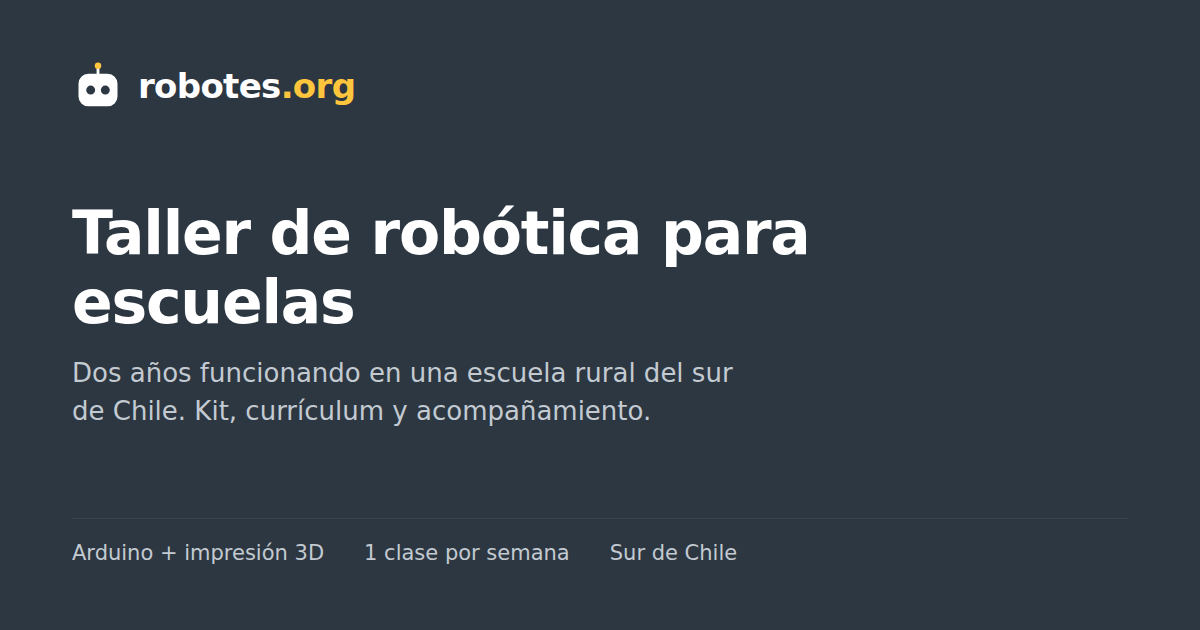
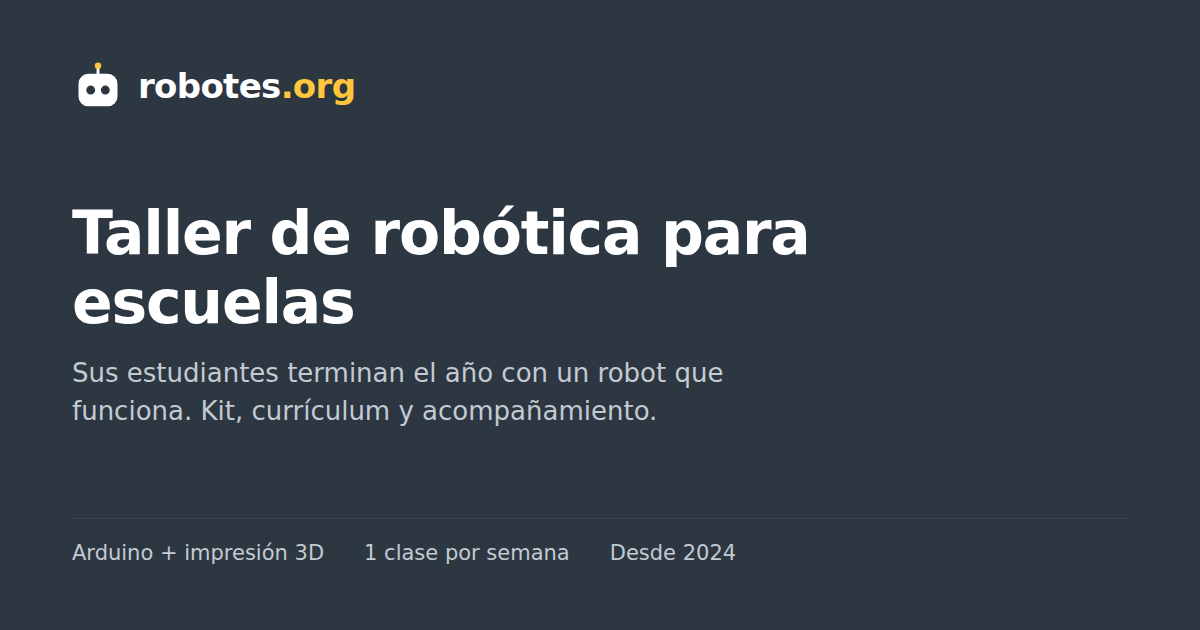
Reescribe el titular desde el resultado para la escuela
El titular anterior hablaba de nuestra trayectoria: "Dos años haciendo
robotica en una escuela rural". El director no compra la trayectoria,
compra un resultado en sus estudiantes. La prueba baja a la bajada y a la
franja de cifras, que es donde corresponde.

Se alinean og:description y la tarjeta OG. Sale "Sur de Chile" de la meta
descripcion y de la tarjeta, a pedido del fundador.

Changed region(s): [[0.0617, 0.6333, 0.555, 0.6937], [0.0617, 0.573, 0.6167, 0.6032], [0.4933, 0.8444, 0.6167, 0.9048]]

diff --git a/index.html b/index.html
@@ -4,7 +4,7 @@
 <meta charset="UTF-8">
 <meta name="viewport" content="width=device-width, initial-scale=1">
 <title>Taller de robótica para escuelas — robotes.org</title>
-<meta name="description" content="Taller de robótica para escuelas del sur de Chile. Una clase por semana durante el año escolar: los estudiantes diseñan en 3D, programan Arduino y terminan con un robot que funciona. Kit, currículum y acompañamiento incluidos.">
+<meta name="description" content="Taller de robótica para escuelas. Una clase por semana durante el año escolar: los estudiantes diseñan en 3D, programan Arduino y terminan con un robot que funciona. Kit, currículum y acompañamiento incluidos.">
 <meta name="theme-color" content="#2c3742">
 <link rel="icon" href="assets/logo/favicon.svg" type="image/svg+xml">
 <link rel="stylesheet" href="assets/tokens.css">
@@ -13,7 +13,7 @@
 <meta property="og:locale" content="es_CL">
 <meta property="og:site_name" content="robotes.org">
 <meta property="og:title" content="Taller de robótica para escuelas">
-<meta property="og:description" content="Dos años de taller semanal en una escuela rural del sur de Chile. Ahora lo llevamos a otras escuelas: kit, currículum y acompañamiento.">
+<meta property="og:description" content="Sus estudiantes terminan el año con un robot que funciona. Kit, currículum y acompañamiento, probados desde 2024 en una escuela rural.">
 <meta property="og:image" content="assets/og.png">
 <meta property="og:url" content="https://robotes.org/">
 <meta name="twitter:card" content="summary_large_image">
@@ -362,11 +362,11 @@
 
     <div class="hero" id="main">
       <p class="eyebrow">Taller de robótica para escuelas</p>
-      <h1>Dos años haciendo robótica en una escuela rural. Ahora lo llevamos a la suya.</h1>
+      <h1>Sus estudiantes van a terminar el año con un robot que funciona.</h1>
       <p class="lede">
-        Una clase por semana durante el año escolar. Los estudiantes diseñan en 3D,
-        programan Arduino, sueldan y terminan con un robot que funciona.
-        Nosotros ponemos el kit, el currículum y el acompañamiento.
+        Una clase por semana durante el año escolar: diseñan en 3D, programan Arduino,
+        sueldan y arman. Nosotros ponemos el kit, el currículum y el acompañamiento.
+        Lo venimos haciendo desde 2024 en una escuela rural.
       </p>
       <div class="actions">
         <a class="btn btn-primary" href="mailto:rsilva@sultans.co?subject=Taller%20de%20rob%C3%B3tica%20para%20nuestra%20escuela&amp;body=Hola%2C%20me%20interesa%20conocer%20el%20taller.%0A%0AEscuela%3A%20%0AComuna%3A%20%0ACargo%3A%20%0ACursos%20que%20participar%C3%ADan%3A%20%0AN%C3%BAmero%20aproximado%20de%20estudiantes%3A%20%0ATel%C3%A9fono%20de%20contacto%3A%20%0A%0AComentarios%3A%0A">Pedir una propuesta</a>

diff --git a/assets/og-card.html b/assets/og-card.html
@@ -60,13 +60,13 @@
 
   <div>
     <h1>Taller de robótica para escuelas</h1>
-    <p class="lede">Dos años funcionando en una escuela rural del sur de Chile. Kit, currículum y acompañamiento.</p>
+    <p class="lede">Sus estudiantes terminan el año con un robot que funciona. Kit, currículum y acompañamiento.</p>
   </div>
 
   <div class="foot">
     <span>Arduino + impresión 3D</span>
     <span>1 clase por semana</span>
-    <span>Sur de Chile</span>
+    <span>Desde 2024</span>
   </div>
 </body>
 </html>
